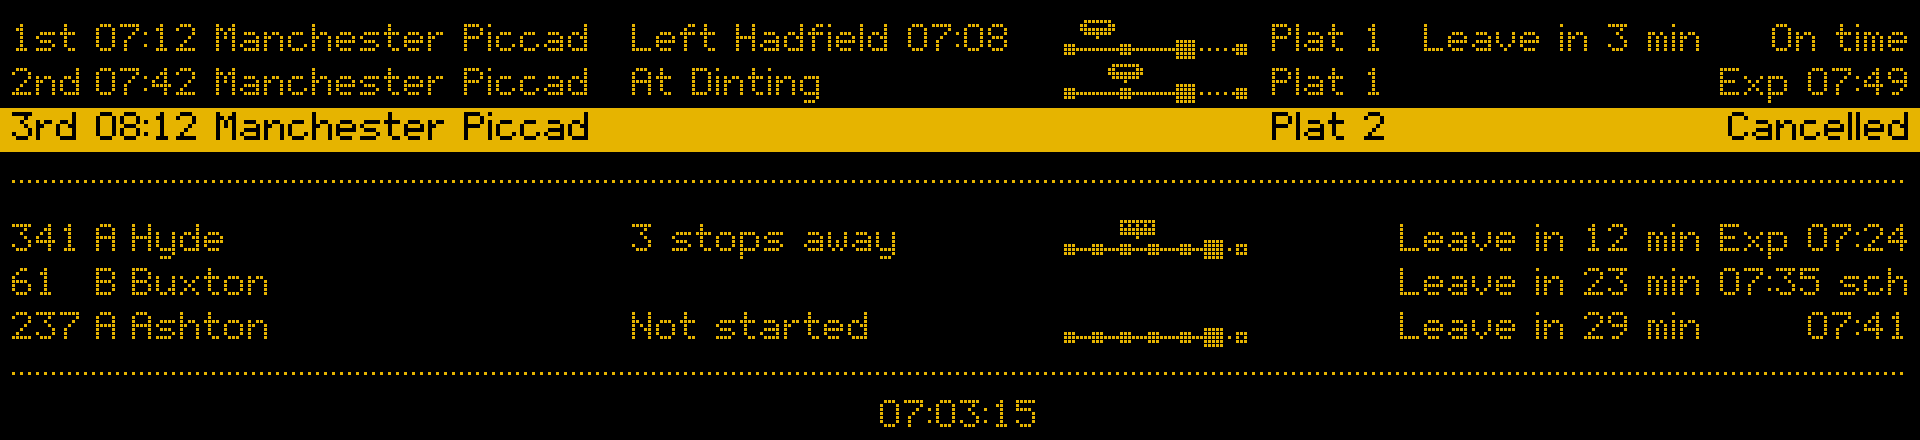
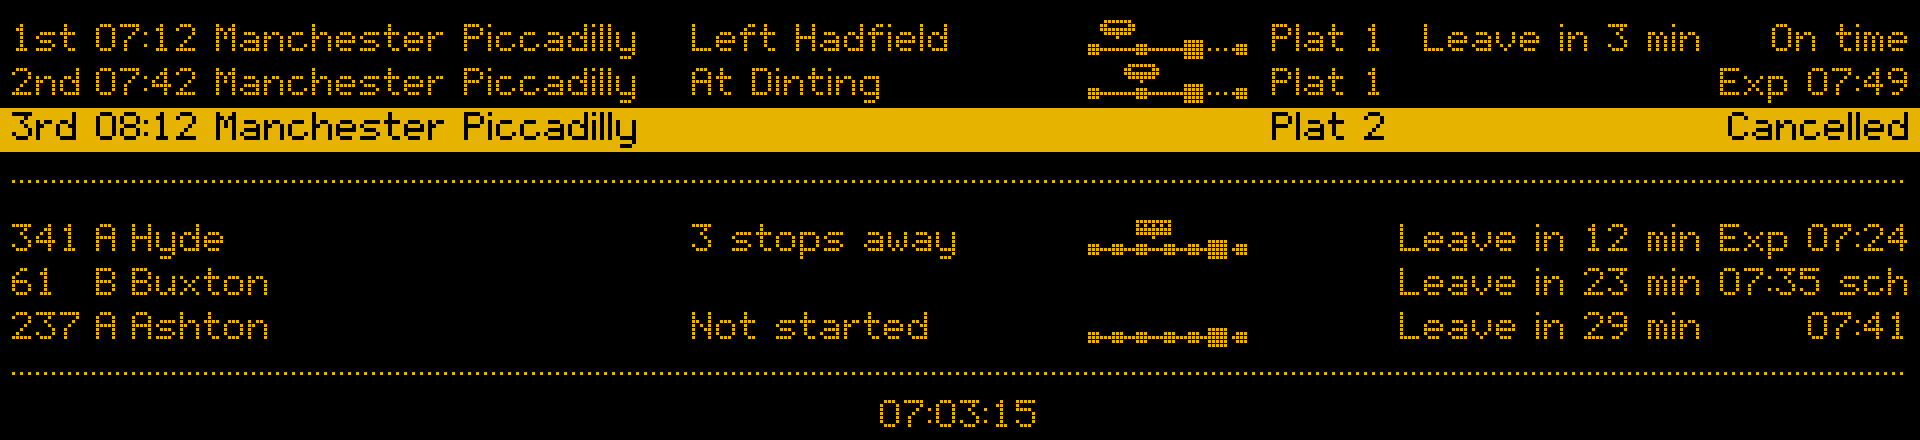
fix(board): give the where words 18 letters so destinations stay whole
At twenty letters "Manchester Piccadilly" was two dots too long on the
bar screen and scrolled on every train row. The where column is now 18
letters at most, the room it needs for a train row's platform, leave
time and status counted too, and the sign look's little line is six dots
narrower to make that room: eight stops still sit five or six dots apart.
The demo's sample words match the board's real short ones.

diff --git a/tests/board/test_sign.py b/tests/board/test_sign.py
@@ -638,9 +638,9 @@ def test_only_the_bar_screen_puts_a_trains_leave_time_on_its_row():
 def test_on_the_bar_screen_each_train_is_one_line_with_its_leave_time_in_a_column():
     items = sign_layout(screen(), *dots(HDMI_1920X440)).items
     first = texts(line_of(items, "1st"))
-    # The destination gives way to twenty letters of where words.
-    assert first[2].startswith("Manchester Picc")
-    assert first[:2] + first[3:] == ["1st", "07:12", "At Dinting", "Plat 1", "Leave in 3 min", "On time"]
+    # The destination stays whole beside eighteen letters of where words.
+    assert first == ["1st", "07:12", "Manchester Piccadilly", "At Dinting", "Plat 1", "Leave in 3 min", "On time"]
+    assert all(i.box is None for i in line_of(items, "1st"))  # nothing on the row scrolls
     # Nothing between the 1st and the 2nd: the rows are a line apart.
     assert find(items, "2nd").y - find(items, "1st").y == 11
 
@@ -861,15 +861,15 @@ def test_the_route_page_fits_the_bar_screen(bus_at):
     assert render_route_sign(route(bus_at), PALETTE, HDMI_1920X440).size == HDMI_1920X440.size
 
 
-TWENTY = "Leaving Hadfield now"  # as long as the where words are meant to be
+EIGHTEEN = "Left Glossop 07:08"  # as long as the where words are meant to be
 
 
-def test_twenty_letters_of_where_fit_uncut_on_the_bar_screen():
-    assert len(TWENTY) == 20
-    rows = [dataclasses.replace(SCREEN_TRAINS[0], strip=Strip(TWENTY, 4, 2, 1.0)), *SCREEN_TRAINS[1:]]
-    buses = [dataclasses.replace(SCREEN_BUSES[0], strip=Strip(TWENTY, 7, 5, 2.4)), *SCREEN_BUSES[1:]]
+def test_eighteen_letters_of_where_fit_uncut_on_the_bar_screen():
+    assert len(EIGHTEEN) == 18
+    rows = [dataclasses.replace(SCREEN_TRAINS[0], strip=Strip(EIGHTEEN, 4, 2, 1.0)), *SCREEN_TRAINS[1:]]
+    buses = [dataclasses.replace(SCREEN_BUSES[0], strip=Strip(EIGHTEEN, 7, 5, 2.4)), *SCREEN_BUSES[1:]]
     items = sign_layout(screen(rows, buses), *dots(HDMI_1920X440)).items
-    assert texts(items).count(TWENTY) == 2
+    assert texts(items).count(EIGHTEEN) == 2
 
 
 @pytest.mark.parametrize("panel", STRIP_PANELS, ids=lambda p: p.name)
@@ -886,18 +886,15 @@ def test_the_where_column_is_as_wide_whatever_the_words(panel):
 def test_the_where_column_takes_the_spare_width_on_wider_screens():
     narrow, wide = where_width(dots(HDMI_1280X400)[0]), where_width(dots(HDMI_1920X440)[0])
     assert FONT.getlength("3 stops away") <= narrow < wide
-    assert FONT.getlength(TWENTY) <= wide
+    assert FONT.getlength(EIGHTEEN) <= wide < FONT.getlength("Leaving Hadfield now")  # 18 letters, not 20
 
 
 @pytest.mark.parametrize("panel", STRIP_PANELS, ids=lambda p: p.name)
-def test_manchester_piccadilly_stays_whole_on_the_7_9_inch_screen_with_strips(panel):
+def test_manchester_piccadilly_stays_whole_on_either_screen_with_strips(panel):
     items = sign_layout(screen(), *dots(panel)).items
-    shown = [i.text for i in items if i.text.startswith("Manchester")]
-    if panel is HDMI_1280X400:
-        assert shown == ["Manchester Piccadilly"] * 3
-    else:
-        # The bar screen gives the where words their twenty letters first.
-        assert all(t.startswith("Manchester Picc") for t in shown)
+    shown = [i for i in items if i.text.startswith("Manchester")]
+    assert [i.text for i in shown] == ["Manchester Piccadilly"] * 3
+    assert all(i.box is None for i in shown)  # drawn whole, never scrolling
 
 
 

diff --git a/src/departureboard/board/sign.py b/src/departureboard/board/sign.py
@@ -68,28 +68,35 @@ def item_size(item: Item) -> tuple[int, int]:
 
 # On a screen wide enough, where each train or bus is: the words, then a
 # little line of its stops.
-STRIP_WIDTH = 48  # eight stops, six dots apart
+STRIP_WIDTH = 42  # eight stops, five or six dots apart
 # Twice the usual gap after the destination, so it and the where words don't
 # run together into one name.
 _WHERE_GAP = 2 * _COL_GAP
-# The where words' column: at least "3 stops away", at most twenty letters
-# ("Left Hadfield 07:08"), which is as long as they are meant to be.
+# The where words' column: at least "3 stops away", at most eighteen letters
+# ("Left Glossop 07:08"), which is as long as they are meant to be.
 _WHERE_LEAST = _FONT.getlength("3 stops away")
-_WHERE_MOST = _FONT.getlength("Leaving Hadfield now")
+_WHERE_MOST = _FONT.getlength("Left Glossop 07:08")
 # What the rest of a full row needs beside the where words: ordinal and time,
-# "Manchester Piccadilly" whole, the little line, a bus's leave time and a status.
-_REST_OF_ROW = (
+# "Manchester Piccadilly" whole and the little line, then a bus's leave time
+# and status, or (where trains get a leave column) a train's platform, leave
+# time and status, whichever is wider.
+_ROW_START = (
     MARGIN + _FONT.getlength("4th") + _COL_GAP + _FONT.getlength("00:00") + _COL_GAP
     + _FONT.getlength("Manchester Piccadilly") + _WHERE_GAP + _COL_GAP + STRIP_WIDTH + _COL_GAP
-    + _FONT.getlength("Leave in 00 min") + _COL_GAP + _FONT.getlength("Exp 00:00") + MARGIN
+)
+_REST_OF_BUS_ROW = _ROW_START + _FONT.getlength("Leave in 00 min") + _COL_GAP + _FONT.getlength("Exp 00:00") + MARGIN
+_REST_OF_TRAIN_ROW = (
+    _ROW_START + _FONT.getlength("Plat 1") + 2 * _COL_GAP + _FONT.getlength("Leave in 00 min") + _COL_GAP
+    + _FONT.getlength("Cancelled") + MARGIN
 )
 
 
 def where_width(width: int) -> int:
     """How wide the where words' column is on a board `width` dots across: the
-    room a full row leaves, from "3 stops away" to twenty letters. It is
+    room a full row leaves, from "3 stops away" to eighteen letters. It is
     worked out from the width alone, so it stays put as the words change."""
-    return max(_WHERE_LEAST, min(_WHERE_MOST, width - _REST_OF_ROW))
+    rest = max(_REST_OF_BUS_ROW, _REST_OF_TRAIN_ROW) if width >= LEAVE_COLUMN_MIN_WIDTH else _REST_OF_BUS_ROW
+    return max(_WHERE_LEAST, min(_WHERE_MOST, width - rest))
 
 
 @dataclass(frozen=True)

diff --git a/tests/board/test_render.py b/tests/board/test_render.py
@@ -983,12 +983,14 @@ def test_the_bar_screen_shows_three_buses_in_the_plain_look():
 
 
 
-def test_twenty_letters_of_where_fit_uncut_on_the_bar_screen_in_the_plain_look():
-    twenty = "Leaving Hadfield now"
-    trains = (dataclasses.replace(STRIP_TRAINS[0], strip=Strip(twenty, 4, 2, 1.0)), *STRIP_TRAINS[1:])
-    buses = (dataclasses.replace(STRIP_BUSES[0], strip=Strip(twenty, 7, 5, 2.4)), *STRIP_BUSES[1:])
+def test_eighteen_letters_of_where_fit_uncut_on_the_bar_screen_in_the_plain_look():
+    eighteen = "Left Glossop 07:08"
+    trains = (dataclasses.replace(STRIP_TRAINS[0], strip=Strip(eighteen, 4, 2, 1.0)), *STRIP_TRAINS[1:])
+    buses = (dataclasses.replace(STRIP_BUSES[0], strip=Strip(eighteen, 7, 5, 2.4)), *STRIP_BUSES[1:])
     layouts, _, _, _ = strip_layouts(HDMI_1920X440, trains, buses)
-    assert [layout.where for _, layout in layouts].count(twenty) == 2
+    assert [layout.where for _, layout in layouts].count(eighteen) == 2
+    fonts = load_fonts(3)
+    assert where_width(fonts, HDMI_1920X440.width, 3) < drawn_length(fonts.small, "Leaving Hadfield now")
 
 
 def test_the_plain_where_column_is_as_wide_whatever_the_words_and_wider_on_the_bar():

diff --git a/src/departureboard/board/render.py b/src/departureboard/board/render.py
@@ -217,7 +217,7 @@ def where_width(fonts: Fonts, width: int, scale: int) -> float:
     """How wide the where words' column is, in panel pixels, on a board `width`
     across: the room a full row leaves beside "Manchester Piccadilly" whole,
     the little line, a bus's leave time and a status, from "3 stops away" to
-    twenty letters ("Left Hadfield 07:08"), as long as they are meant to be.
+    eighteen letters ("Left Glossop 07:08"), as long as they are meant to be.
     Worked out from the width alone, so it stays put as the words change."""
     pad, gap = _PAD * scale, _COL_GAP * scale
     rest = (
@@ -226,7 +226,7 @@ def where_width(fonts: Fonts, width: int, scale: int) -> float:
         + drawn_length(fonts.bold, "Exp 00:00") + pad
     )
     least = drawn_length(fonts.small, "3 stops away")
-    most = drawn_length(fonts.small, "Leaving Hadfield now")
+    most = drawn_length(fonts.small, "Left Glossop 07:08")
     return max(least, min(most, width - rest))
 
 

diff --git a/src/departureboard/board/positions.py b/src/departureboard/board/positions.py
@@ -142,7 +142,7 @@ def _train_strip(details: ServiceDetails | None, now: datetime) -> Strip | None:
         found = train_position(details, now)
         if found is None:
             return None
-        # The short words: a row has room for about 20 characters.
+        # The short words: a row has room for 18 characters.
         return Strip(found.short, len(found.strip_stops), found.yours, found.train_at)
     except Exception as error:  # noqa: BLE001 - a position is never worth the board
         log.debug("train position not drawn: %s", safe_message(error))

diff --git a/src/departureboard/cli/dev.py b/src/departureboard/cli/dev.py
@@ -191,7 +191,7 @@ def demo_command(args) -> int:
     # Where each is, as a wide screen shows it. The cancelled train and the 61,
     # with no live position, have none; the 237 hasn't started its journey yet.
     strips = {
-        strip_key(trains[0]): Strip("Left Hadfield 07:08", 4, 2, 0.5),
+        strip_key(trains[0]): Strip("Left Hadfield", 4, 2, 0.5),
         strip_key(trains[1]): Strip("At Dinting", 4, 2, 1.0),
         strip_key(buses[0]): Strip("3 stops away", 7, 5, 2.4),
         strip_key(buses[2]): Strip("Not started", 7, 5, None),

diff --git a/src/departureboard/sources/livebus.py b/src/departureboard/sources/livebus.py
@@ -413,7 +413,7 @@ def row_strip(live: LiveDeparture, positions: dict[str, StopPosition]) -> Strip 
     words = where_words(live, found)
     if at is None:
         # Not on the strip yet: "Not yet past The Junction" is too long for a
-        # row (about 20 characters), so count the calls to your stop instead.
+        # row (18 characters), so count the calls to your stop instead.
         away = live.call_index - math.floor(live.progress.at + 0.02)
         words = "1 stop away" if away == 1 else f"{away} stops away"
     try:

diff --git a/tests/cli/test_emulate.py b/tests/cli/test_emulate.py
@@ -188,7 +188,7 @@ def test_screen_demo_says_where_the_trains_and_buses_are():
         em.clock.advance()
     assert "Left Hadfield" in trains and "Not started" in words
     assert {"3 stops away", "1 stop away"} <= buses
-    assert all(len(w) <= 20 for w in words)  # a row has room for about 20 characters
+    assert all(len(w) <= 18 for w in words)  # a row has room for 18 characters
 
 
 def test_epaper_demo_asks_where_nothing_is():
